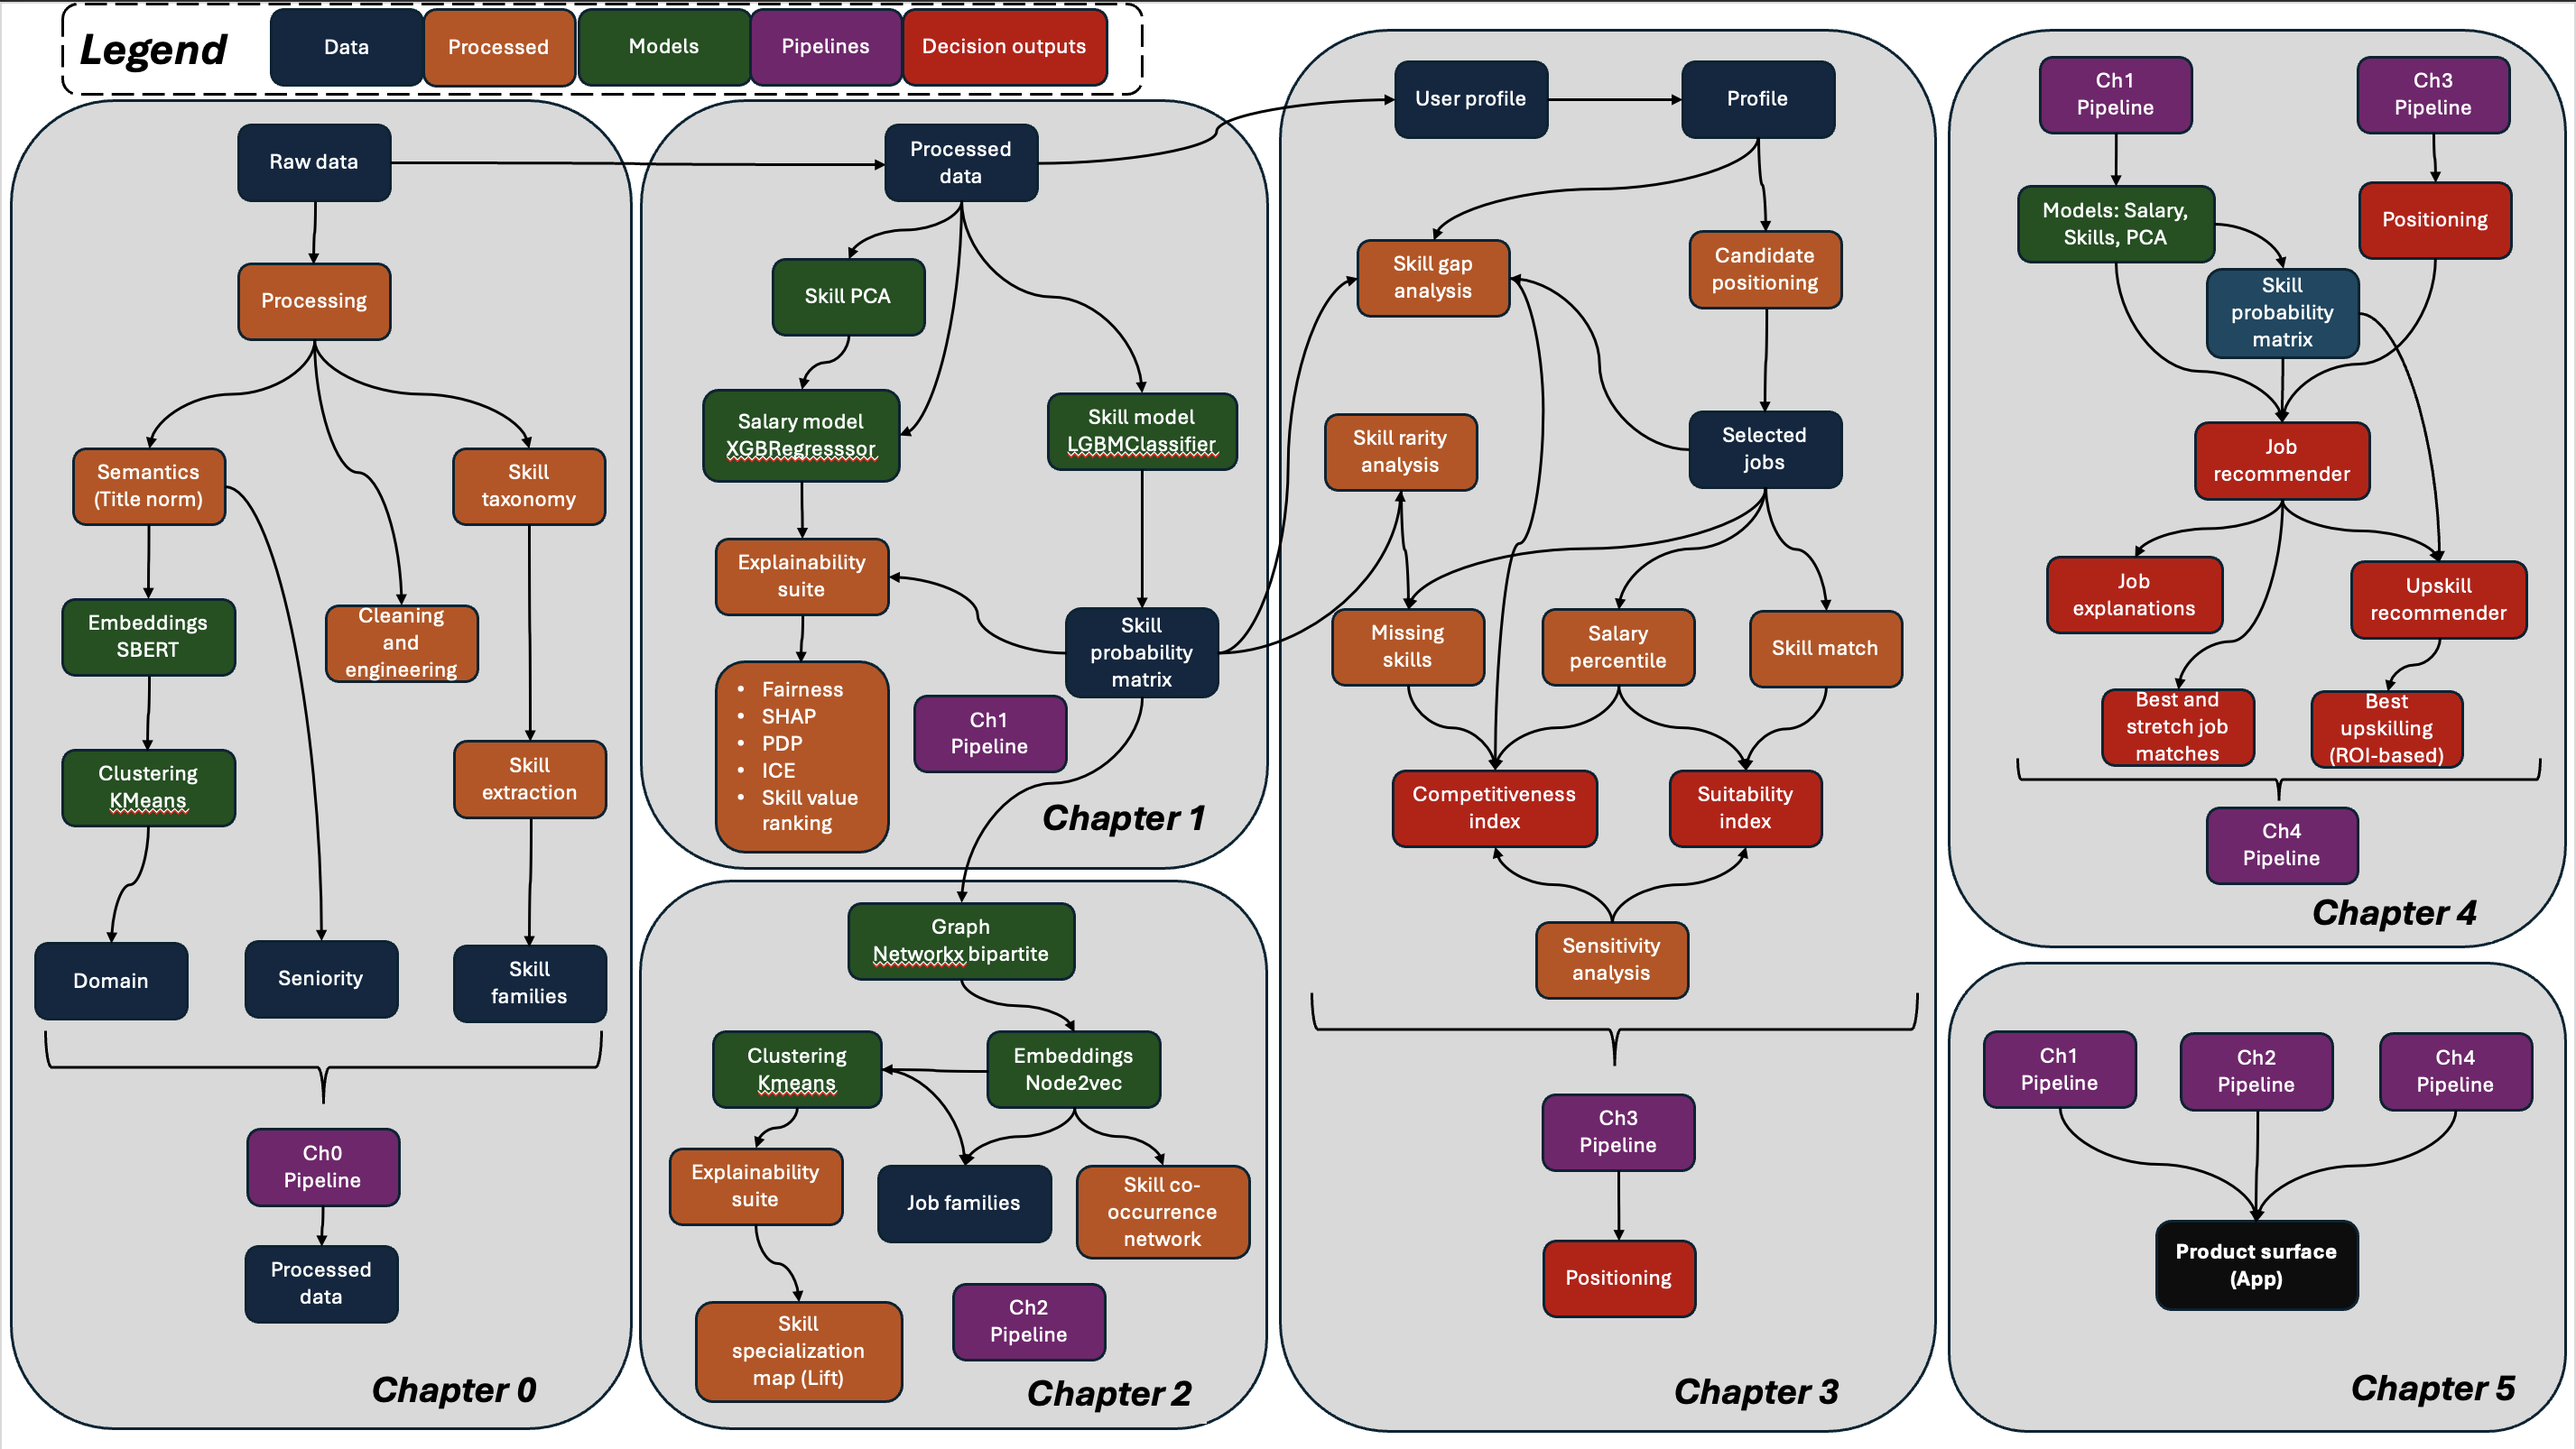
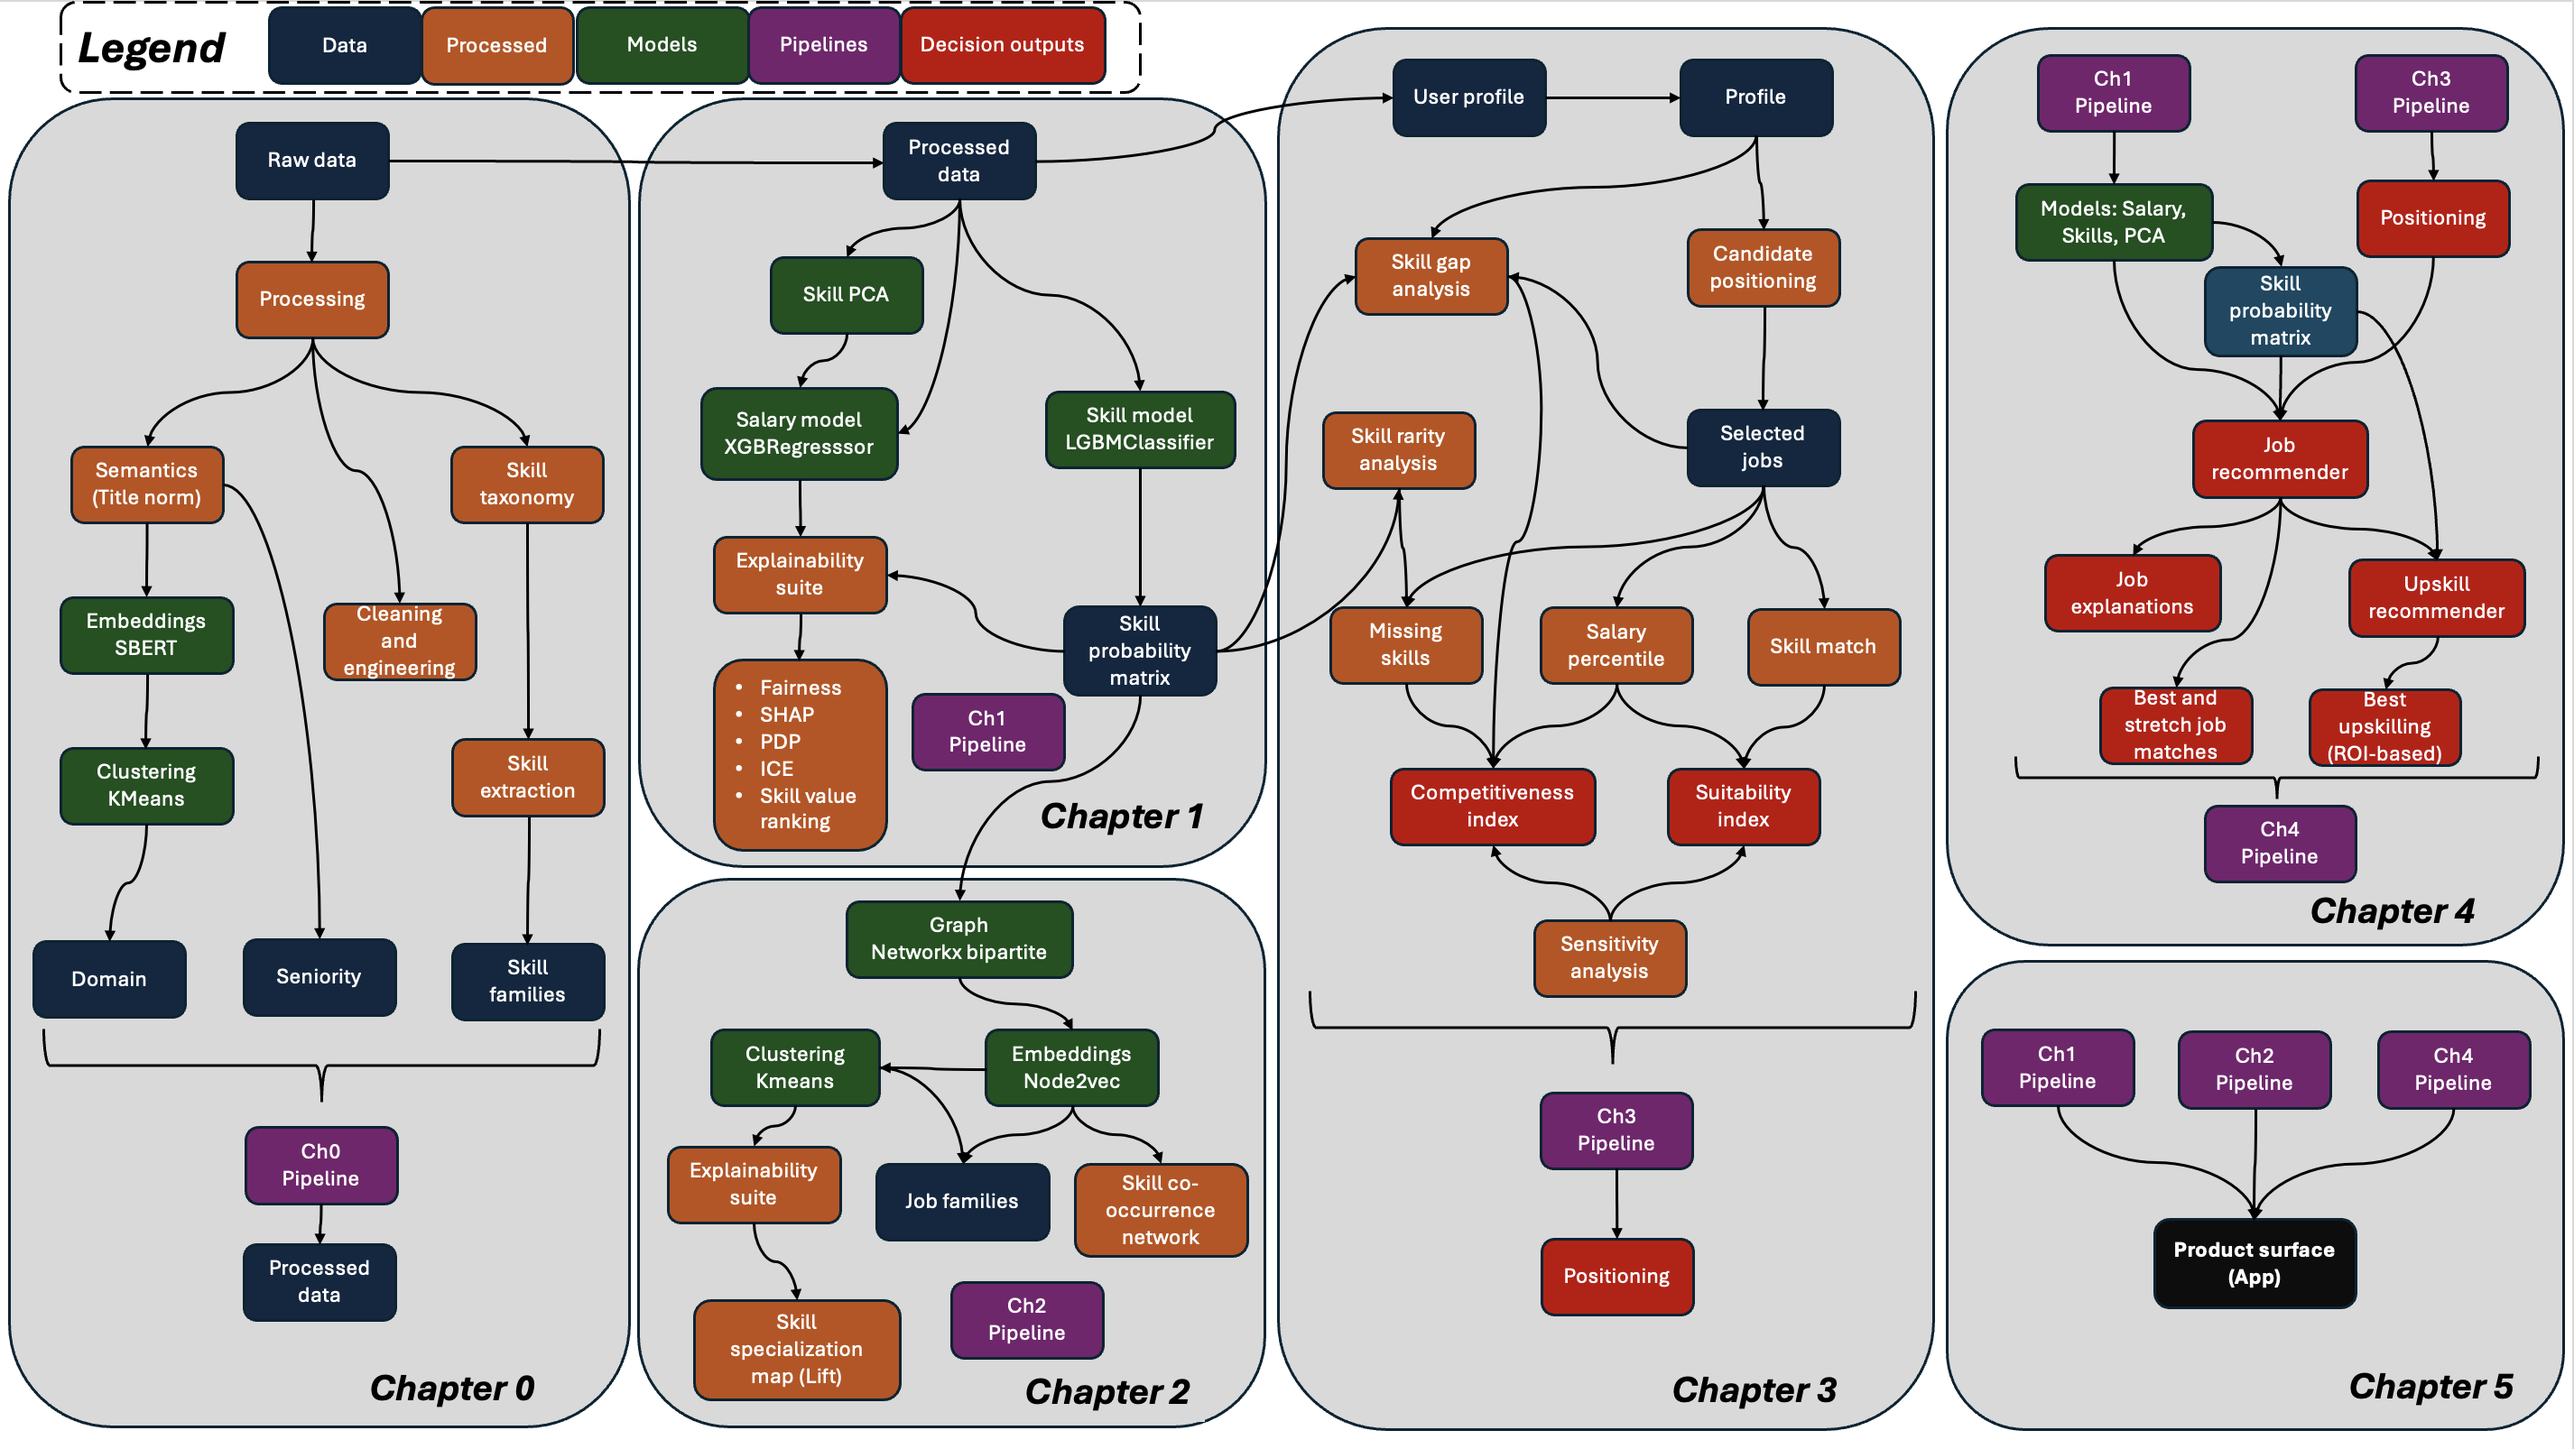
Updated visual_overview.png in Media

diff --git a/README.md b/README.md
@@ -91,7 +91,7 @@ The intent is decision support, not hiring guarantees. The engine summarises pat
 ## Data and licensing
 
 This project uses two public Kaggle datasets:
-- [Data Scientist Jobs (DataScientist.csv)](https://www.kaggle.com/datasets/andrewmvd/data-scientist-jobs?select=DataScientist.csv)
+- [Data Scientist Jobs](https://www.kaggle.com/datasets/andrewmvd/data-scientist-jobs?select=DataScientist.csv)
 - [Data Analyst Jobs](https://www.kaggle.com/datasets/andrewmvd/data-analyst-jobs)
 
 A snapshot of the Kaggle source data used for this project is included under `data/raw/` for reproducibility. Please review Kaggle and the dataset authors’ terms before reusing or redistributing the data.
